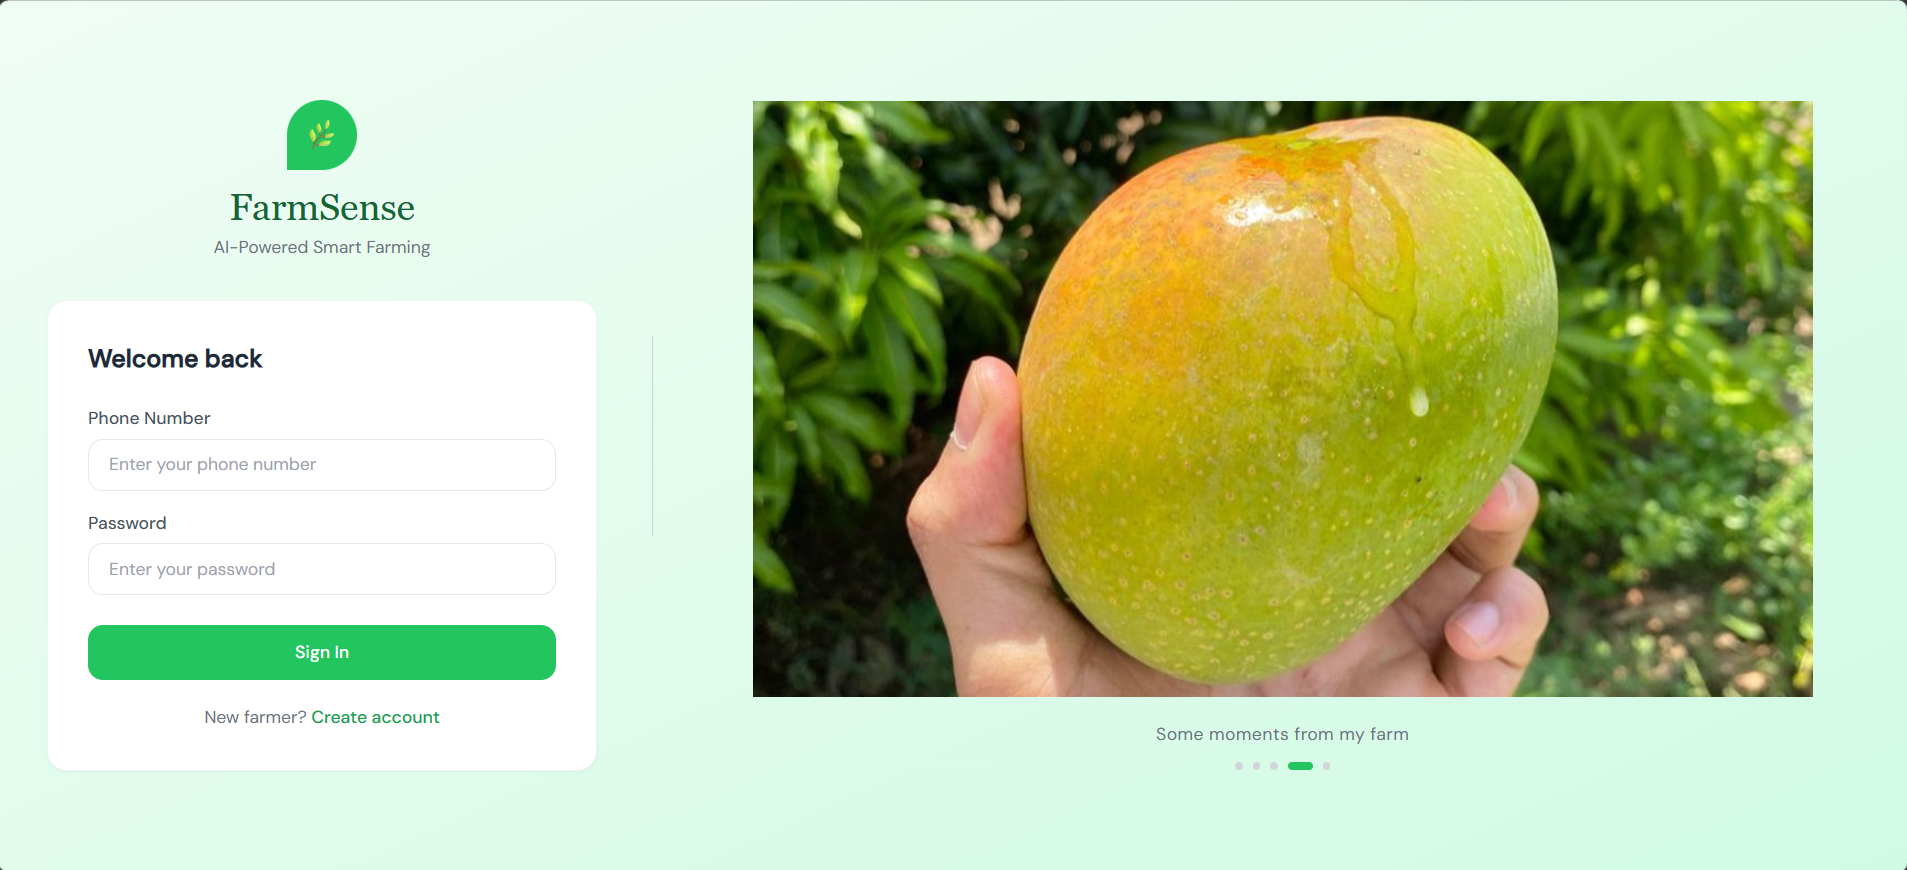
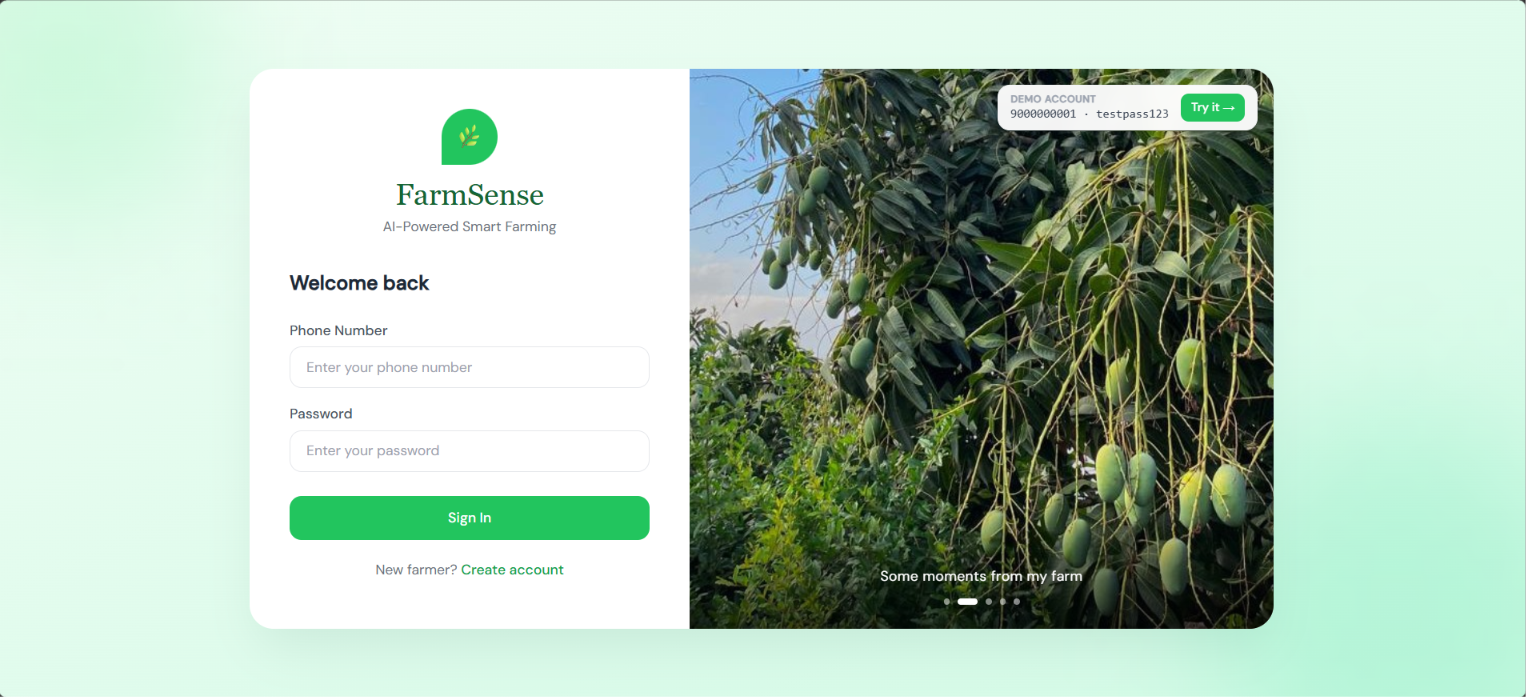
updated project descriptions, links, skills

diff --git a/index.html b/index.html
@@ -804,7 +804,7 @@
           </li>
           <li>
             <a
-              href="aditya-full-stack-dev.pdf"
+              href="aditya_full_stack_dev.pdf"
               target="_blank"
               class="resume-btn"
               >RESUME</a
@@ -822,7 +822,7 @@
             <span class="status-dot"></span>OPEN TO OPPORTUNITIES
           </div>
           <h1 class="hero-name">Aditya Lawande</h1>
-          <p class="hero-role">i'm a full stack developer</p>
+          <p class="hero-role">i'm a full-stack software developer</p>
           <p class="hero-desc">
             Computer engineering student and full stack developer, building web
             applications end-to-end and integrating AI into real products.
@@ -833,7 +833,7 @@
               <i class="fa-solid fa-arrow-right" style="font-size: 0.8em"></i>
             </a>
             <a
-              href="aditya-full-stack-dev.pdf"
+              href="aditya_full_stack_dev.pdf"
               target="_blank"
               class="btn btn-outline"
             >
@@ -906,6 +906,7 @@
               <div class="info-card-label">CURRENTLY WORKING WITH</div>
               <div class="tag-row">
                 <span class="pill">React</span>
+                <span class="pill">Next.js</span>
                 <span class="pill">Node.js</span>
                 <span class="pill">PostgreSQL</span>
                 <span class="pill">Express</span>
@@ -959,27 +960,27 @@
 
             <ul class="exp-list">
               <li>
-                Developed and enhanced multiple client-facing production web
-                pages using JSP, HTML5, CSS3, Bootstrap, and JavaScript,
-                improving UI consistency across global market research portals.
+                Engineered a full-stack content publishing CMS solo using Java
+                Spring Boot, Thymeleaf and MySQL, unifying 7 content types
+                (blogs, news, interviews, case studies and more) under one
+                content-type-driven data model.
               </li>
               <li>
-                Built a dynamic multi-language report filtering system using
-                Java Servlets, JDBC, and MySQL, enabling real-time
-                database-driven content filtering across 14 languages.
+                Developed frontend pages and backend workflows for market
+                research portals, connecting UI components to server-side logic
+                and relational queries.
               </li>
               <li>
-                Utilized Java, JSP, Servlets, JDBC, and MySQL to develop,
-                maintain, and enhance production web applications in a
-                professional development environment.
+                Co-built a multilingual report filtering feature supporting
+                database-driven content discovery across 14 languages.
               </li>
             </ul>
 
             <div class="tag-row" style="margin-top: 1.25rem">
               <span class="pill">Java</span>
-              <span class="pill">MySQL</span>
               <span class="pill">Spring Boot</span>
-              <span class="pill">JavaScript</span>
+              <span class="pill">Thymeleaf</span>
+              <span class="pill">MySQL</span>
             </div>
           </div>
         </div>
@@ -997,20 +998,21 @@
           <div class="skill-card">
             <div class="skill-card-title">LANGUAGES</div>
             <div class="skill-tags">
-              <span class="pill">C++</span>
-              <span class="pill">Java</span>
               <span class="pill">JavaScript</span>
               <span class="pill">SQL</span>
+              <span class="pill">Java</span>
+              <span class="pill">Python</span>
+              <span class="pill">C++</span>
             </div>
           </div>
           <div class="skill-card">
             <div class="skill-card-title">FRONTEND</div>
             <div class="skill-tags">
-              <span class="pill">React 18</span>
-              <span class="pill">Vite</span>
-              <span class="pill">React Router v6</span>
-              <span class="pill">Context API</span>
-              <span class="pill">Responsive UI</span>
+              <span class="pill">React.js</span>
+              <span class="pill">Next.js</span>
+              <span class="pill">HTML5</span>
+              <span class="pill">CSS3</span>
+              <span class="pill">Tailwind CSS</span>
             </div>
           </div>
           <div class="skill-card">
@@ -1018,24 +1020,31 @@
             <div class="skill-tags">
               <span class="pill">Node.js</span>
               <span class="pill">Express.js</span>
+              <span class="pill">Spring Boot</span>
               <span class="pill">REST APIs</span>
-              <span class="pill">API Integration</span>
+              <span class="pill">Socket.IO</span>
+              <span class="pill">Server-Sent Events</span>
             </div>
           </div>
           <div class="skill-card">
             <div class="skill-card-title">DATABASES</div>
             <div class="skill-tags">
               <span class="pill">PostgreSQL</span>
+              <span class="pill">PostGIS</span>
+              <span class="pill">MySQL</span>
+              <span class="pill">MongoDB</span>
+              <span class="pill">Prisma</span>
               <span class="pill">Supabase</span>
               <span class="pill">pgvector</span>
             </div>
           </div>
           <div class="skill-card">
-            <div class="skill-card-title">AUTH &amp; SECURITY</div>
+            <div class="skill-card-title">AUTH &amp; CLOUD</div>
             <div class="skill-tags">
-              <span class="pill">Supabase Auth</span>
-              <span class="pill">Google OAuth 2.0</span>
               <span class="pill">JWT</span>
+              <span class="pill">OAuth 2.0 / JWKS</span>
+              <span class="pill">Supabase Auth</span>
+              <span class="pill">Cloudflare R2</span>
             </div>
           </div>
           <div class="skill-card">
@@ -1043,6 +1052,7 @@
             <div class="skill-tags">
               <span class="pill">Claude API</span>
               <span class="pill">OpenAI Embeddings</span>
+              <span class="pill">RAG</span>
             </div>
           </div>
           <div class="skill-card">
@@ -1093,14 +1103,15 @@
               <div class="proj-tags">
                 <span class="proj-tag">REACT.JS</span>
                 <span class="proj-tag">NODE.JS</span>
-                <span class="proj-tag">EXPRESS.JS</span>
                 <span class="proj-tag">POSTGRESQL</span>
+                <span class="proj-tag">CLAUDE API</span>
               </div>
               <h3 class="proj-title">SPPUStudyHUB</h3>
               <p class="proj-desc">
-                Built a responsive full-stack educational platform for SPPU
-                engineering students providing PYQs, notes, question banks, and
-                AI-powered exam assistance in one place.
+                Full-stack educational platform for SPPU engineering students
+                serving 6,000+ monthly visitors and 750+ registered users, with
+                AI exam explanations powered by Claude and semantic response
+                caching that cuts repeated LLM calls by 65–70%.
               </p>
             </div>
             <div class="proj-footer">
@@ -1112,7 +1123,7 @@
                 View Live <i class="fa-solid fa-arrow-right"></i>
               </a>
               <a
-                href="https://github.com/adityalawande17"
+                href="https://github.com/adityalawande17/sppu-study-hub-v3"
                 target="_blank"
                 class="proj-link"
               >
@@ -1123,20 +1134,22 @@
           <!-- Farmsense AI -->
           <div class="project-card">
             <div class="proj-img">
-              <img src="farmsense2.png" alt="FarmsenseAI" />
+              <img src="farmsense.png" alt="FarmsenseAI" />
             </div>
             <div class="proj-body">
               <div class="proj-tags">
-                <span class="proj-tag">MONGODB</span>
-                <span class="proj-tag">EXPRESS.JS</span>
                 <span class="proj-tag">REACT.JS</span>
                 <span class="proj-tag">NODE.JS</span>
+                <span class="proj-tag">MONGODB</span>
+                <span class="proj-tag">CLAUDE API</span>
+                <span class="proj-tag">RAG</span>
               </div>
               <h3 class="proj-title">FarmsenseAI</h3>
               <p class="proj-desc">
-                Built an AI-powered responsive full stack agriculture platform
-                to assist farmers with smart crop-related insights and
-                recommendations.
+                Agentic AI advisory platform for farmers built on Claude's
+                tool-use API, combining live weather, mandi prices, and soil
+                data into one contextual recommendation grounded in retrieved
+                ICAR/KVK documents via a RAG pipeline.
               </p>
             </div>
             <div class="proj-footer">
@@ -1159,17 +1172,21 @@
           <!-- StudentKart -->
           <div class="project-card">
             <div class="proj-img">
-              <img src="studentkart2.png" alt="StudentKart" />
+              <img src="studentkart-v2.png" alt="StudentKart" />
             </div>
             <div class="proj-body">
               <div class="proj-tags">
-                <span class="proj-tag">MERN</span>
-                <span class="proj-tag">MONGODB</span>
+                <span class="proj-tag">NEXT.JS</span>
+                <span class="proj-tag">POSTGRESQL/POSTGIS</span>
+                <span class="proj-tag">PRISMA</span>
+                <span class="proj-tag">SOCKET.IO</span>
               </div>
               <h3 class="proj-title">StudentKart</h3>
               <p class="proj-desc">
-                A full-stack marketplace platform for students to buy and sell
-                items within their campus community.
+                Full-stack marketplace for students to buy and sell items within
+                their campus community, featuring PostGIS-powered geospatial
+                listing search and a standalone Socket.IO chat service
+                authenticated with short-lived JWTs.
               </p>
             </div>
             <div class="proj-footer">
@@ -1181,7 +1198,7 @@
                 View Live <i class="fa-solid fa-arrow-right"></i>
               </a>
               <a
-                href="https://github.com/adityalawande17/studentKart"
+                href="https://github.com/adityalawande17/studentkart-v2"
                 target="_blank"
                 class="proj-link"
               >
@@ -1214,7 +1231,7 @@
             target="_blank"
             class="achieve-card"
           >
-            <div class="achieve-count">200+</div>
+            <div class="achieve-count">280+</div>
             <div class="achieve-label">Problems solved on LeetCode</div>
           </a>
         </div>
